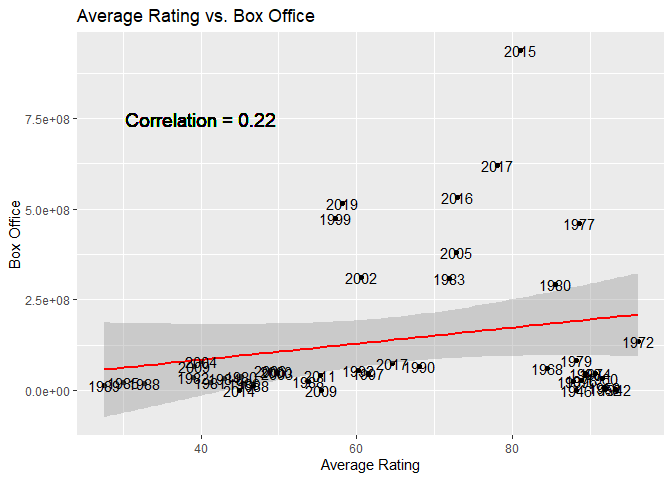
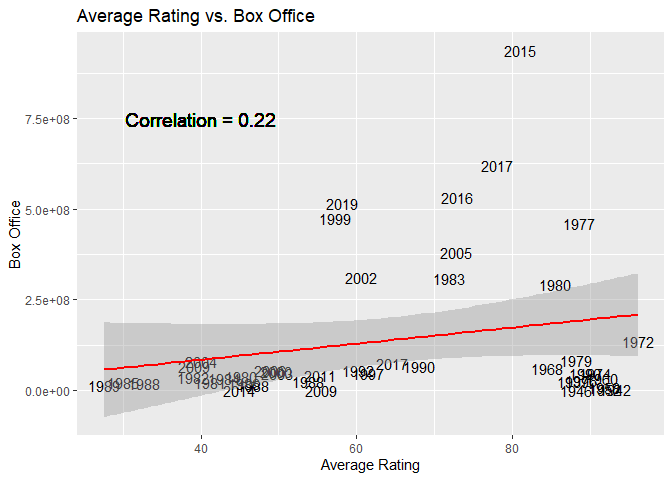
4:40_6_25_2022

diff --git a/README.md b/README.md
@@ -936,11 +936,10 @@ B<-unique(A)
 correlation <- cor(B$average_rating, B$BoxOffice)
 
 g <- ggplot(B, aes(x = average_rating, y = BoxOffice))
-g + geom_point() +
+g + geom_text(aes(label = Year)) +
 geom_smooth(method = lm, col = "Red") +
   labs(x = "Average Rating", title = "Average Rating vs. Box Office", y="Box Office") +
-  geom_text(x = 40, y = 7.5e+08, size = 5, label = paste0("Correlation = ", round(correlation, 3))) +
-  geom_text(aes(label = Year))
+  geom_text(x = 40, y = 7.5e+08, size = 5, label = paste0("Correlation = ", round(correlation, 3)))
 ```
 
 ![](README_files/figure-gfm/4_07_6_25_2022-1.png)<!-- -->
